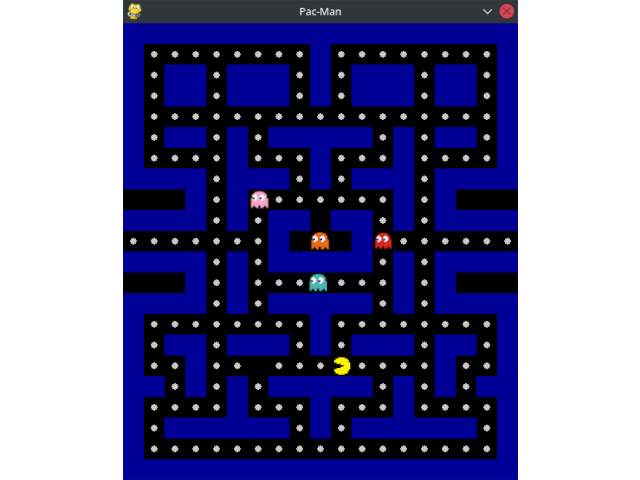
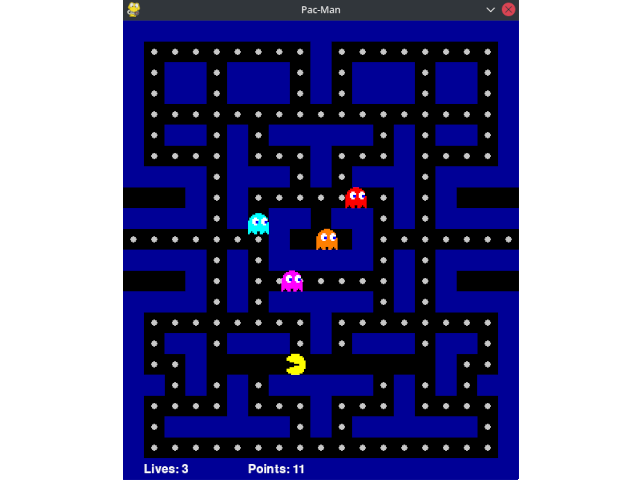
updated project description

diff --git a/main.py b/main.py
@@ -11,9 +11,9 @@ import hud
 
 
 class Game:
-    _live_lock: threading.Lock
+    _life_lock: threading.Lock
     _point_lock: threading.Lock
-    live_count: int
+    life_count: int
     point_count: int
     paused: bool
     board: List[List[int]]
@@ -21,9 +21,9 @@ class Game:
     sprite_group: pygame.sprite.Group
 
     def __init__(self):
-        self._live_lock = threading.Lock()
+        self._life_lock = threading.Lock()
         self._point_lock = threading.Lock()
-        self.live_count = 3
+        self.life_count = 3
         self.point_count = 0
         self.paused = False
         self.init_board()
@@ -113,13 +113,13 @@ class Game:
 
         # Draw HUD
         if self.paused:
-            if self.live_count > 0:
+            if self.life_count > 0:
                 self.hud.center_text("Get ready")
             else:
                 self.hud.center_text("Game over")
 
         self.hud.show_point_count(self.point_count)
-        self.hud.show_live_count(self.live_count)
+        self.hud.show_live_count(self.life_count)
 
         pygame.display.flip()
 
@@ -135,10 +135,10 @@ class Game:
         return (ghost_red, ghost_cyan, ghost_magenta, ghost_orange, [pac_man_img_1, pac_man_img_2, pac_man_img_3])
 
     def decr_live_count(self):
-        with self._live_lock:
-            self.live_count -= 1
+        with self._life_lock:
+            self.life_count -= 1
 
-            if self.live_count <= 0:
+            if self.life_count <= 0:
                 self.end_game()
                 return
 

diff --git a/game_character.py b/game_character.py
@@ -15,7 +15,7 @@ class GameCharacter(pygame.sprite.Sprite):
     start_pos: tuple
     pos: pygame.Vector2
     rect: pygame.rect.Rect
-    _live_lock: threading.Lock
+    _turn_lock: threading.Lock
     image: pygame.surface.Surface
     paused: bool
 

diff --git a/README.md b/README.md
@@ -1,5 +1,33 @@
 # Pac-Man
 
+## Zrzut ekranu
+
+![Zrzut ekranu](./252761.png)
+
+## Opis
+
+Program jest implementacją gry [Pac-Man](https://pl.wikipedia.org/wiki/Pac-Man).
+
+Plansza gry składa się z czarnych i niebieskich pól. Czarne pola oznaczają miejsca, po których postacie mogą się poruszać, a niebieskie pola to ściany przez które postacie nie mogą przechodzić. Na czarnych polach mogą znajdować się punkty w postaci białych kół.
+
+Gra polega na kierowaniu Pac-Manem (Żółtą okrągłą postacią) przy użyciu klawiszy strzałek, zbieraniu punktów i unikaniu duchów, poruszających się po planszy. Gdy duch znajdzie się w bliskiej odległości od postaci gracza, to zaczyna za nim podążać, w innym przypadku porusza się w sposób losowy. W przypadku dotknięcia ducha przez Pac-Mana gracz traci jedno życie, a położenie wszystkich postaci zostaje zresetowane do położenia początkowego. Na początku gry gracz posiada 3 życia. Po utracie wszystkich żyć program jest zatrzymywany, a gra kończy się.
+
+Aktualna liczba żyć oraz liczba punktów gracza zapisane są na dole planszy.
+
+## Wątki
+
+- Główny wątek gry - uruchamia wątki Pac-Mana i duchów, wyświetla planszę i postacie oraz przetwarza akcje gracza,
+- Pac-Man - wątek odpowiedzialny za aktualizowanie stanu postaci Pac-Man,
+- 4 wątki każdego z duchów - odpowiedzialne za aktualizowanie stanu duchów.
+
+## Sekcje krytyczne
+
+### Muteksy:
+
+- `_life_lock` w klasie `Game` - zapobiega występowaniu zjawiska hazardu w funkcji zmniejszającej liczbę żyć,
+- `_point_lock` w klasie `Game` - zapobiega występowaniu zjawiska hazardu w funkcji zwiększającej liczbę punktów,
+- `_turn_lock` w klasie `GameCharacter` - przeciwdziała występowaniu zjawiska hazardu w funkcji przetwarzającej wciśnięte klawisze i funkcji przetwarzającej kolizje postaci z ścianami.
+
 ## Powód dla którego wybrano taki temat
 
-Jako cel projektu wybrana została implementacja gry "Pac-Man". Ta gra została wybrana ze względu na jej dużą popularność oraz występowanie w niej kilku niezależnych postaci, które wchodzą ze sobą w interakcje co pozwoliło na wykorzystanie wielowątkowości oraz sekcji krytycznych.
+Jako cel projektu wybrana została implementacja gry "Pac-Man". Ta gra została wybrana ze względu na jej dużą popularność oraz występowanie w niej kilku niezależnych postaci które wchodzą ze sobą w interakcje, co pozwoliło na wykorzystanie wielowątkowości oraz sekcji krytycznych.
